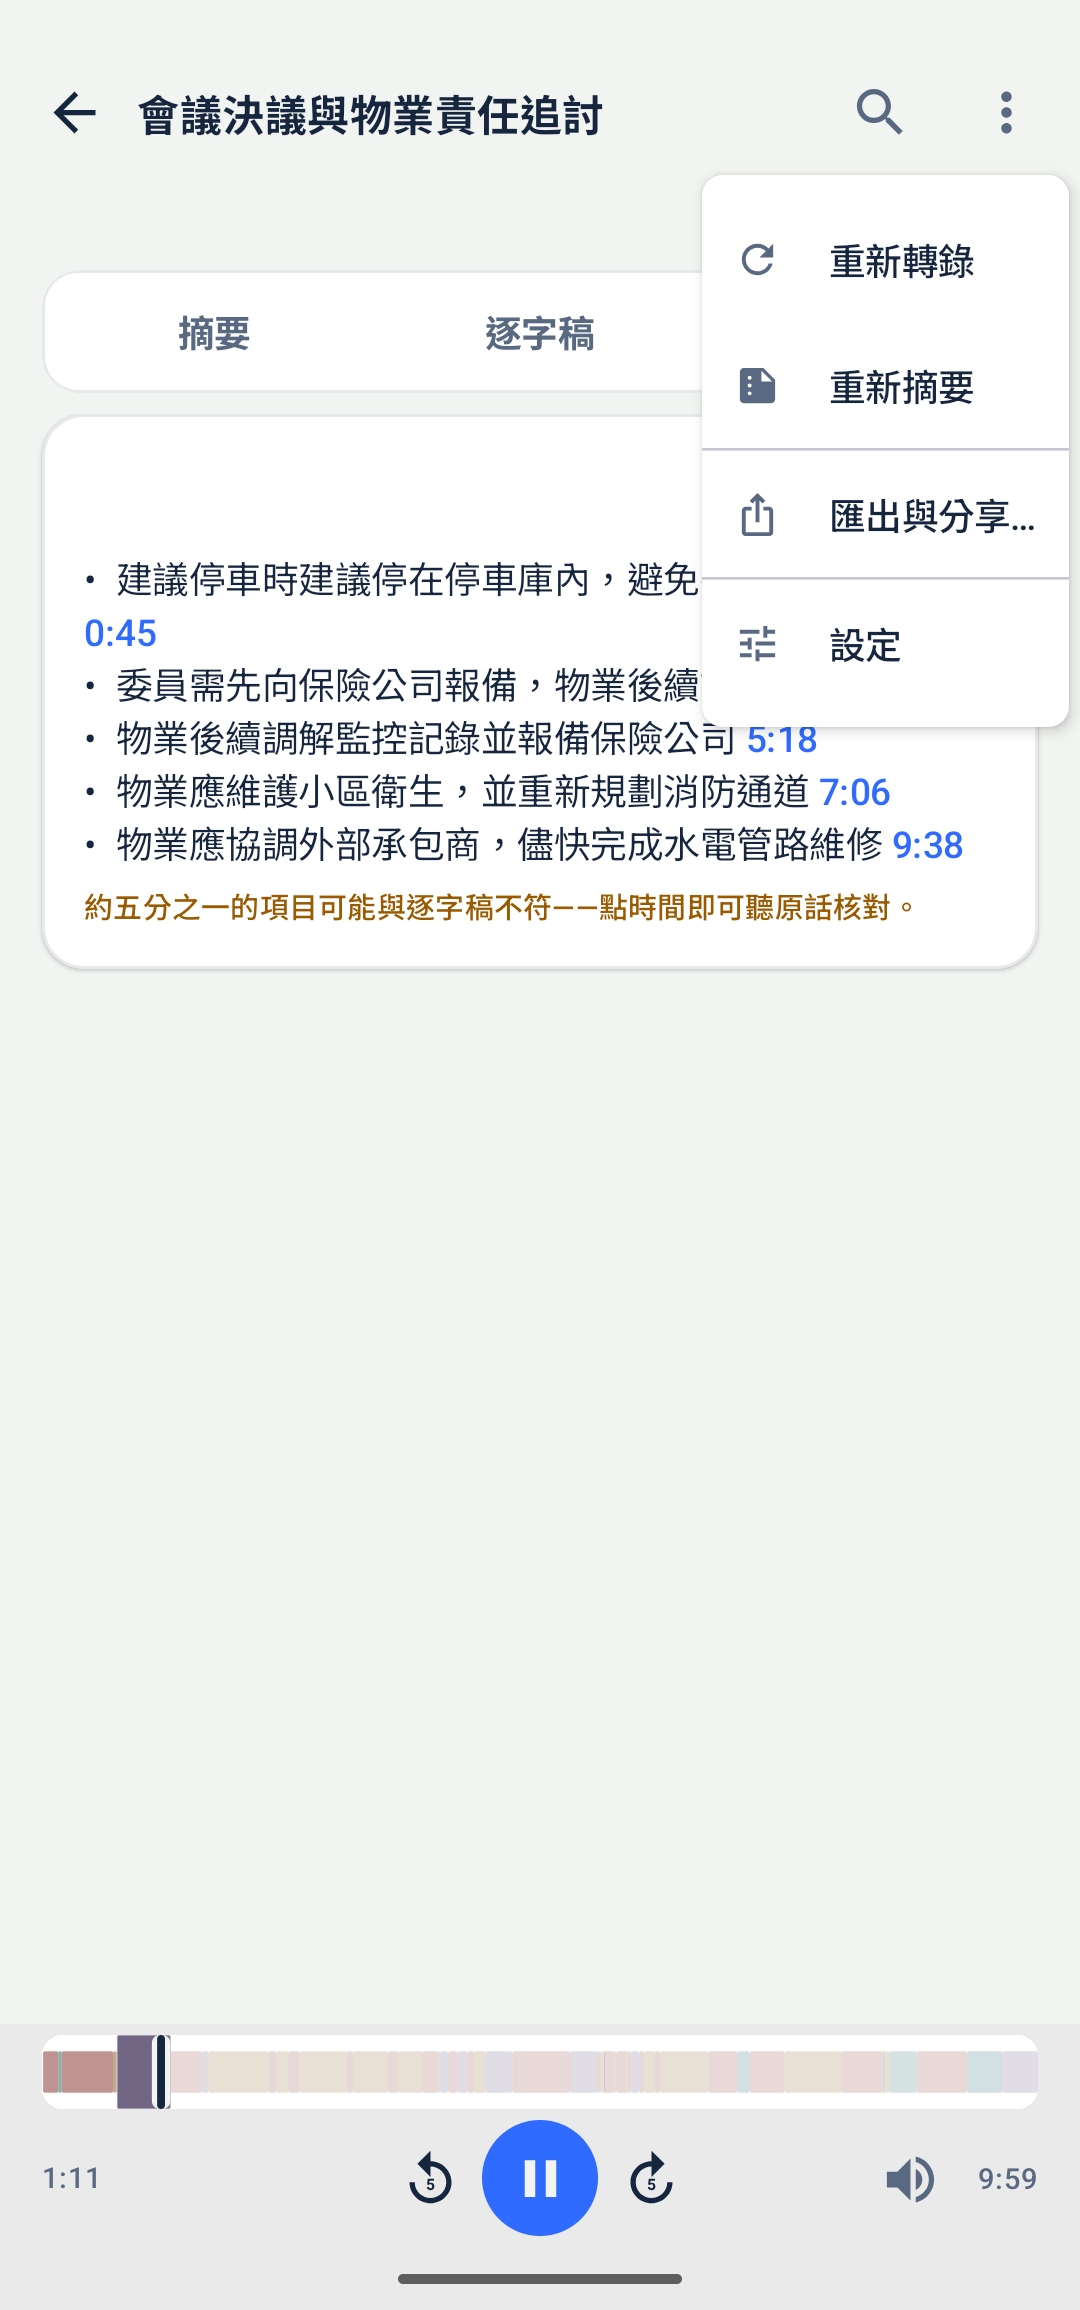
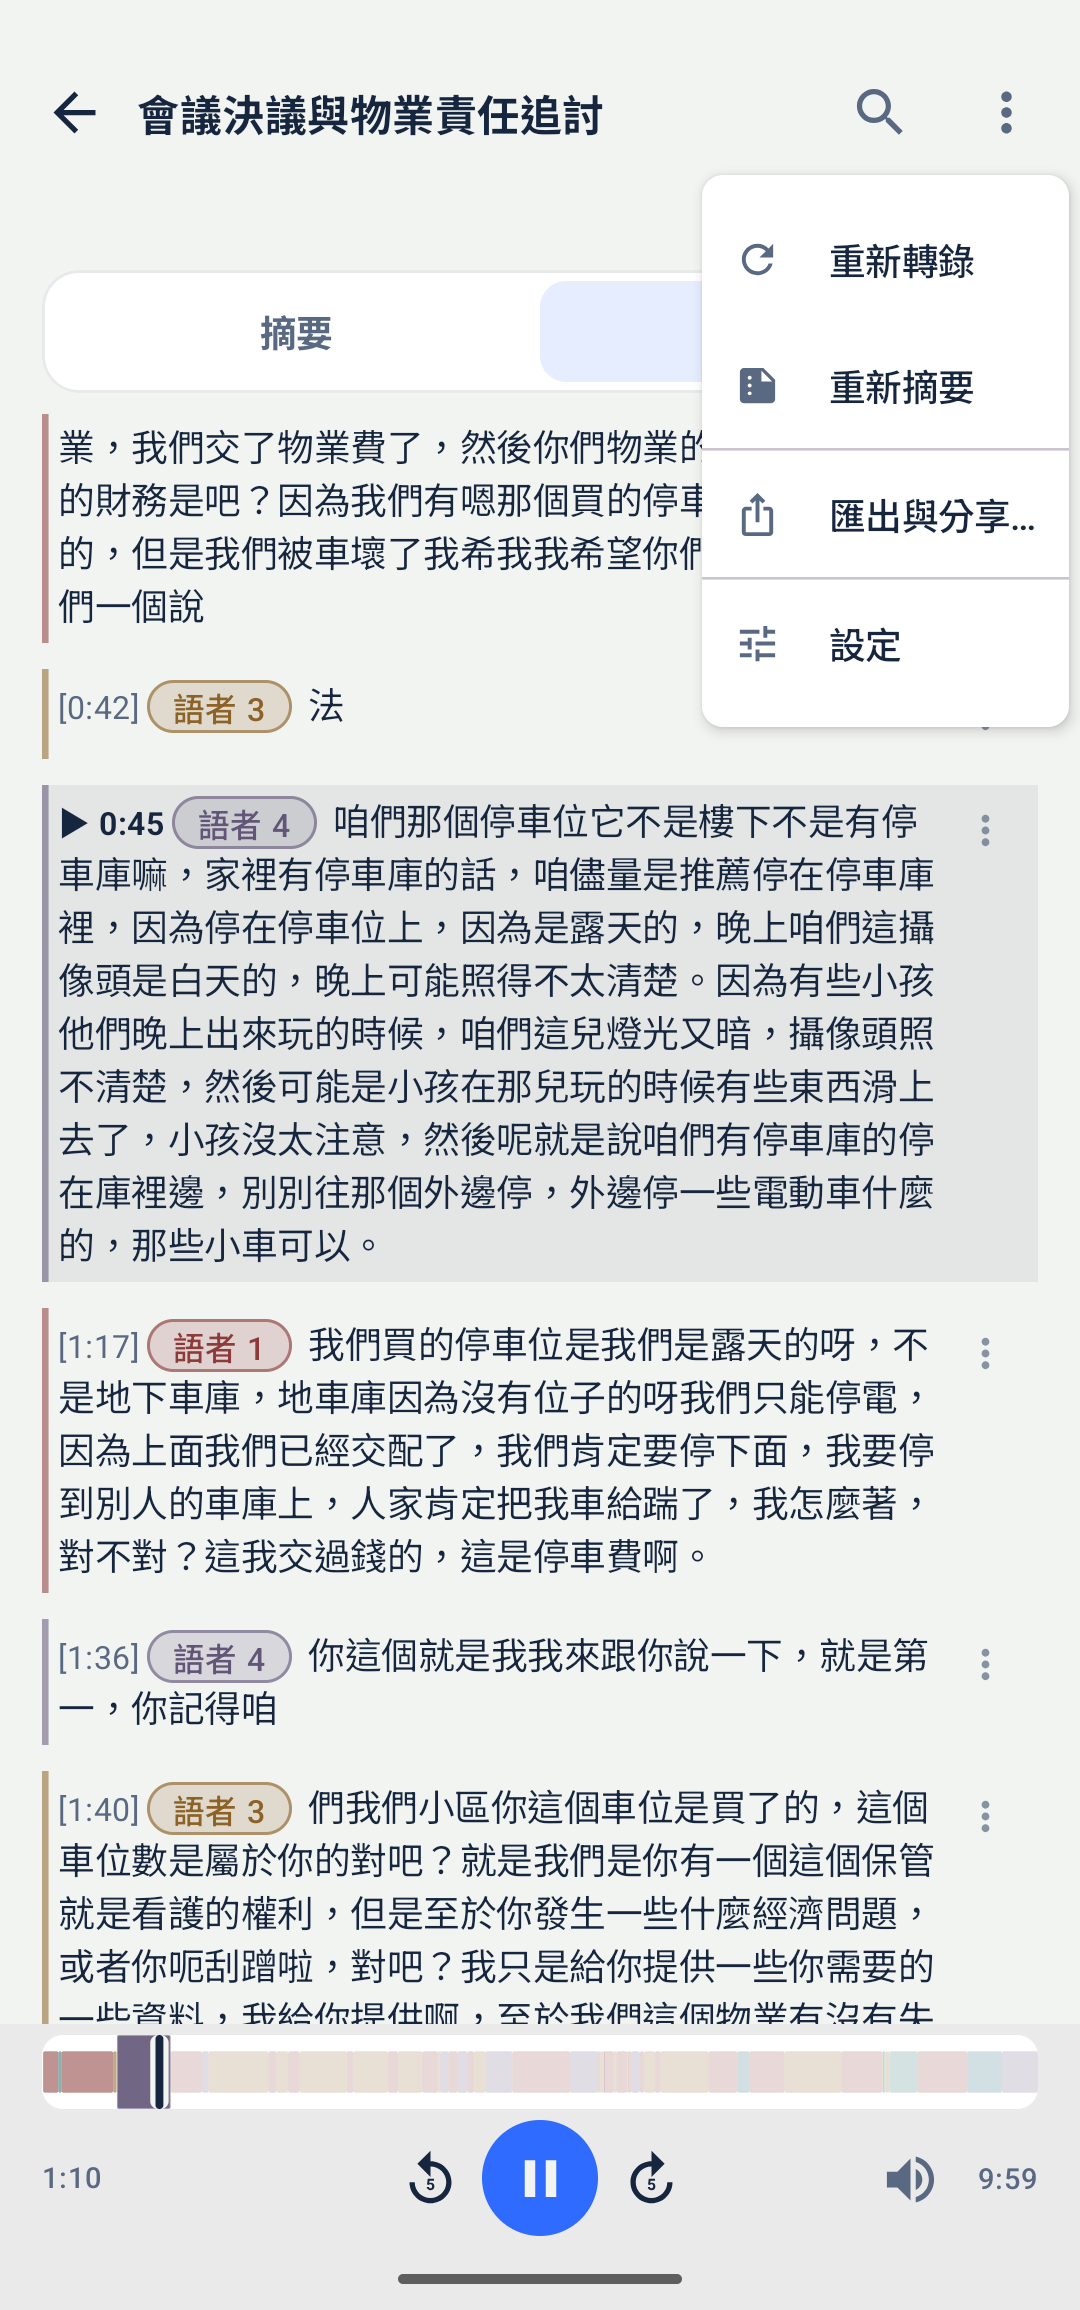
feat: action items leave the session tabs; hidden by default and opt-in under Settings → Experimental (shown under the summary when enabled)
Claude-Session: https://claude.ai/code/session_01FTPZWryYGhBFouGpM2DEme

diff --git a/app/src/main/java/studio/voxsum/MainActivity.kt b/app/src/main/java/studio/voxsum/MainActivity.kt
@@ -1981,6 +1981,22 @@ private fun TranscribeScreen(
                     },
                     onSeek = anchorSeek, showHeading = twoPane)
             }
+            // Action items are a short follow-up section under the summary, not a tab of their own:
+            // the model's extraction is not reliable enough to be presented as a to-do list (they
+            // repeat summary points, carry no owner, ~1 in 5 is off). Experimental, opt-in in Settings.
+            val hasActions = actionItems?.trim()?.let { it.isNotEmpty() && it != "-" } == true
+            if (config.showActionItems && (hasActions || editingActions)) actionItems?.let { ai ->
+                ActionItemsCard(ai, editingActions,
+                    onBeginEdit = { editingActions = true },
+                    onSave = { actionItems = it; editingActions = false; editSeq++; sessionDirty = true },
+                    onCancel = { editingActions = false },
+                    onCopy = {
+                        val cm = context.getSystemService(android.content.ClipboardManager::class.java)
+                        cm?.setPrimaryClip(android.content.ClipData.newPlainText("VoxSum action items", ai))
+                        scope.launch { snackbarHostState.showSnackbar(context.getString(R.string.action_items_copied)) }
+                    },
+                    onSeek = anchorSeek)
+            }
             // Sections the v2 NOTES format adds and the older prose summary never had. Rendered
             // only when non-empty: the format requires all six keys to be present, so a meeting
             // with no decisions still emits "DECISIONS:\n-", and an empty card would be noise.
@@ -2010,31 +2026,9 @@ private fun TranscribeScreen(
             }
         }
     }
-    val actionsCards: @Composable () -> Unit = {
-        Column(verticalArrangement = Arrangement.spacedBy(10.dp)) {
-            val noActions = actionItems?.trim()?.let { it.isEmpty() || it == "-" } == true && !editingActions
-            if (noActions) Text(stringResource(R.string.actions_none), color = pal.Slate400, modifier = Modifier.padding(top = 24.dp))
-            else actionItems?.let { ai ->
-                ActionItemsCard(ai, editingActions,
-                    onBeginEdit = { editingActions = true },
-                    onSave = { actionItems = it; editingActions = false; editSeq++; sessionDirty = true },
-                    onCancel = { editingActions = false },
-                    onCopy = {
-                        val cm = context.getSystemService(android.content.ClipboardManager::class.java)
-                        cm?.setPrimaryClip(android.content.ClipData.newPlainText("VoxSum action items", ai))
-                        scope.launch { snackbarHostState.showSnackbar(context.getString(R.string.action_items_copied)) }
-                    },
-                    onSeek = anchorSeek, showHeading = twoPane)
-            }
-            if (actionItems == null) {
-                Text(stringResource(if (utterances.isEmpty() && !running) R.string.status_no_speech else R.string.actions_pending_hint), color = pal.Slate400, modifier = Modifier.padding(top = 24.dp))
-            }
-        }
-    }
     val overviewCards: @Composable () -> Unit = {
         Column(verticalArrangement = Arrangement.spacedBy(10.dp)) {
             summaryCards()
-            if (actionItems != null) actionsCards()
         }
     }
 
@@ -2328,7 +2322,7 @@ private fun TranscribeScreen(
                     }
                 }
             } else {
-                // Portrait: Summary · Transcript · Actions tabs — each job gets a shallow room
+                // Portrait: Summary · Transcript tabs — each job gets a shallow room
                 // instead of one long scroll (VoxSum 2.0).
                 SessionTabs(selected = sessTab, onSelect = { sessTab = it })
                 Spacer(Modifier.height(8.dp))
@@ -2336,9 +2330,6 @@ private fun TranscribeScreen(
                     0 -> Column(
                         Modifier.weight(1f).fillMaxWidth().verticalScroll(rememberScrollState()),
                     ) { summaryCards(); Spacer(Modifier.height(8.dp)) }
-                    2 -> Column(
-                        Modifier.weight(1f).fillMaxWidth().verticalScroll(rememberScrollState()),
-                    ) { actionsCards(); Spacer(Modifier.height(8.dp)) }
                     else -> {
                         if (searchActive) TranscriptSearchBar(
                             query = searchQuery, onQuery = { searchQuery = it },

diff --git a/app/src/main/java/studio/voxsum/ui/SettingsContent.kt b/app/src/main/java/studio/voxsum/ui/SettingsContent.kt
@@ -145,6 +145,17 @@ fun SettingsContent(
             color = pal.Slate400,
         )
 
+        // Experimental — features whose output is not reliable enough to be on by default.
+        Section(stringResource(R.string.settings_experimental))
+        SwitchRow(stringResource(R.string.settings_show_actions), config.showActionItems, enabled) {
+            onChange(config.copy(showActionItems = it))
+        }
+        Text(
+            stringResource(R.string.settings_show_actions_hint),
+            style = MaterialTheme.typography.bodySmall,
+            color = pal.Slate400,
+        )
+
         // (6) Storage — downloaded models, per-item delete (each re-downloads on next use).
         Section(stringResource(R.string.settings_storage))
         StoragePanel(enabled, summaryReady = LlmRegistry.byId(config.llmModelId).id in readyLlm)

diff --git a/app/src/main/java/studio/voxsum/core/config/ConfigStore.kt b/app/src/main/java/studio/voxsum/core/config/ConfigStore.kt
@@ -26,6 +26,7 @@ object ConfigStore {
                 .coerceIn(TranscriptionConfig.SPEAKER_DELAY_MIN, TranscriptionConfig.SPEAKER_DELAY_MAX),
             llmModelId = p.getString("llmModelId", d.llmModelId) ?: d.llmModelId,
             summaryScript = summaryScript,
+            showActionItems = p.getBoolean("showActionItems", d.showActionItems),
         )
     }
 
@@ -36,6 +37,7 @@ object ConfigStore {
             putInt("speakerDelaySec", c.speakerDelaySec)
             putString("llmModelId", c.llmModelId)
             putString("summaryScript", c.summaryScript)
+            putBoolean("showActionItems", c.showActionItems)
             // Settings of retired engines (hotwords, VAD, speaker-count hint, precise diarization, ASR
             // hardware) — nothing reads them any more.
             RETIRED_KEYS.forEach(::remove)

diff --git a/app/src/main/java/studio/voxsum/core/config/TranscriptionConfig.kt b/app/src/main/java/studio/voxsum/core/config/TranscriptionConfig.kt
@@ -19,6 +19,8 @@ data class TranscriptionConfig(
     // 95.8% at 30 s (tools/nemo-eval). Text itself is always shown immediately. The final
     // transcript does not depend on this.
     val speakerDelaySec: Int = 15,
+    /** Experimental: show the model's action items under the summary (off by default — not reliable enough). */
+    val showActionItems: Boolean = false,
 
     // --- Summarization ---
     // The actually-used summary model. MUST track LlmRegistry.DEFAULT_ID — hardcoding it here (it was

diff --git a/app/src/main/java/studio/voxsum/ui/SessionTopBar.kt b/app/src/main/java/studio/voxsum/ui/SessionTopBar.kt
@@ -215,7 +215,6 @@ fun SessionTabs(selected: Int, onSelect: (Int) -> Unit) {
     val labels = listOf(
         stringResource(R.string.tab_summary),
         stringResource(R.string.tab_transcript),
-        stringResource(R.string.tab_actions),
     )
     Row(
         Modifier
